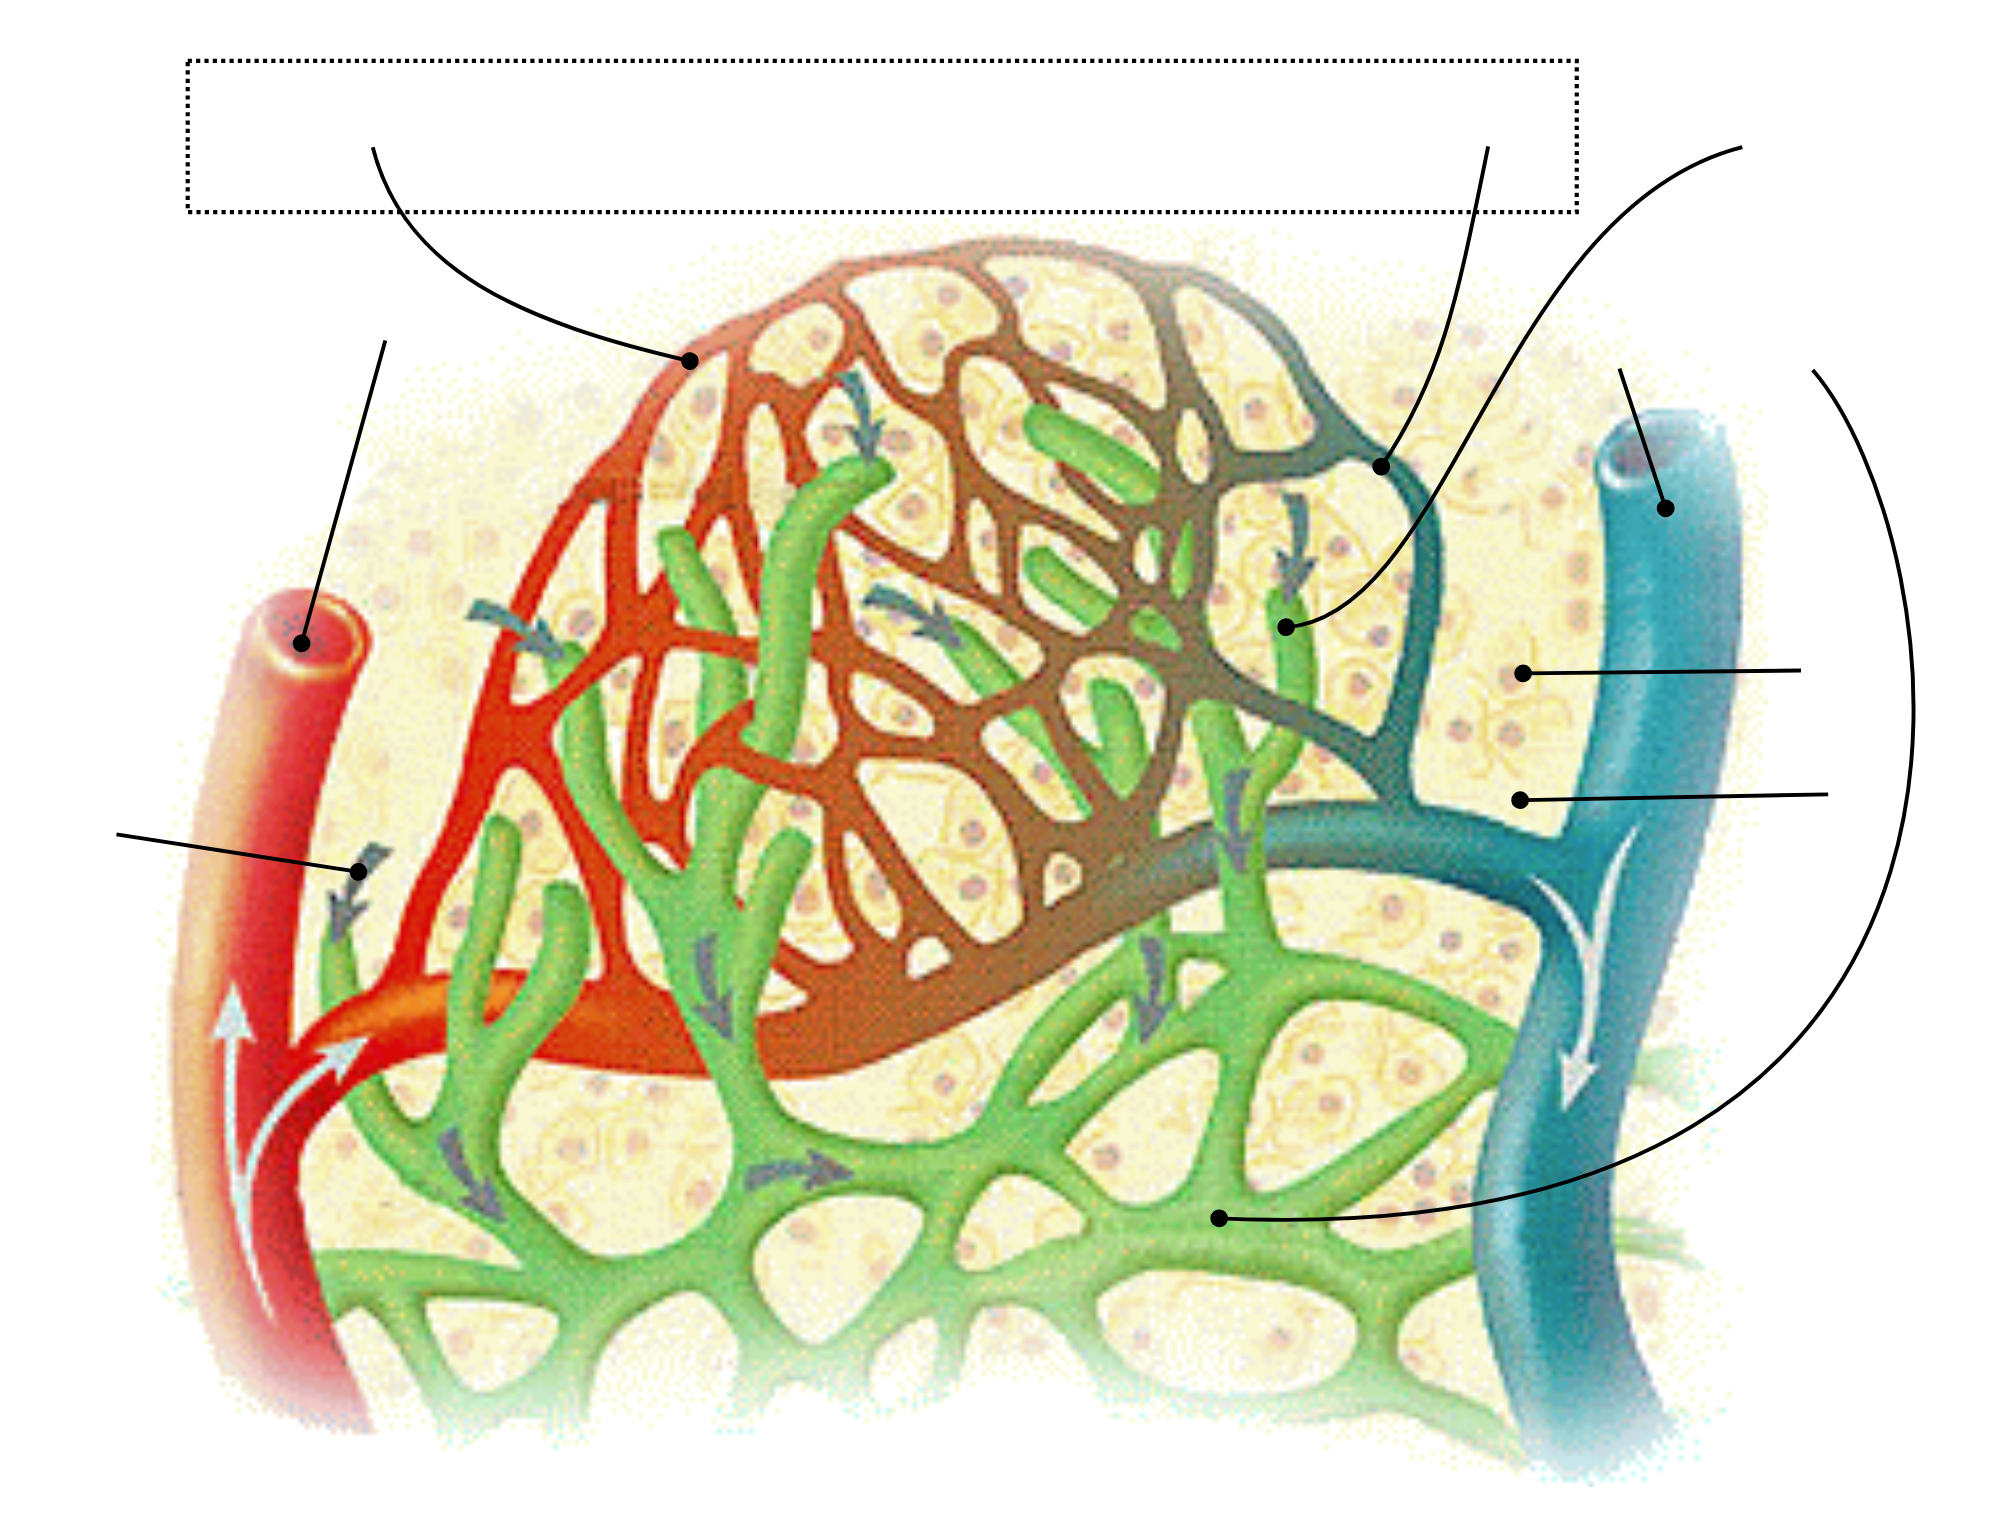
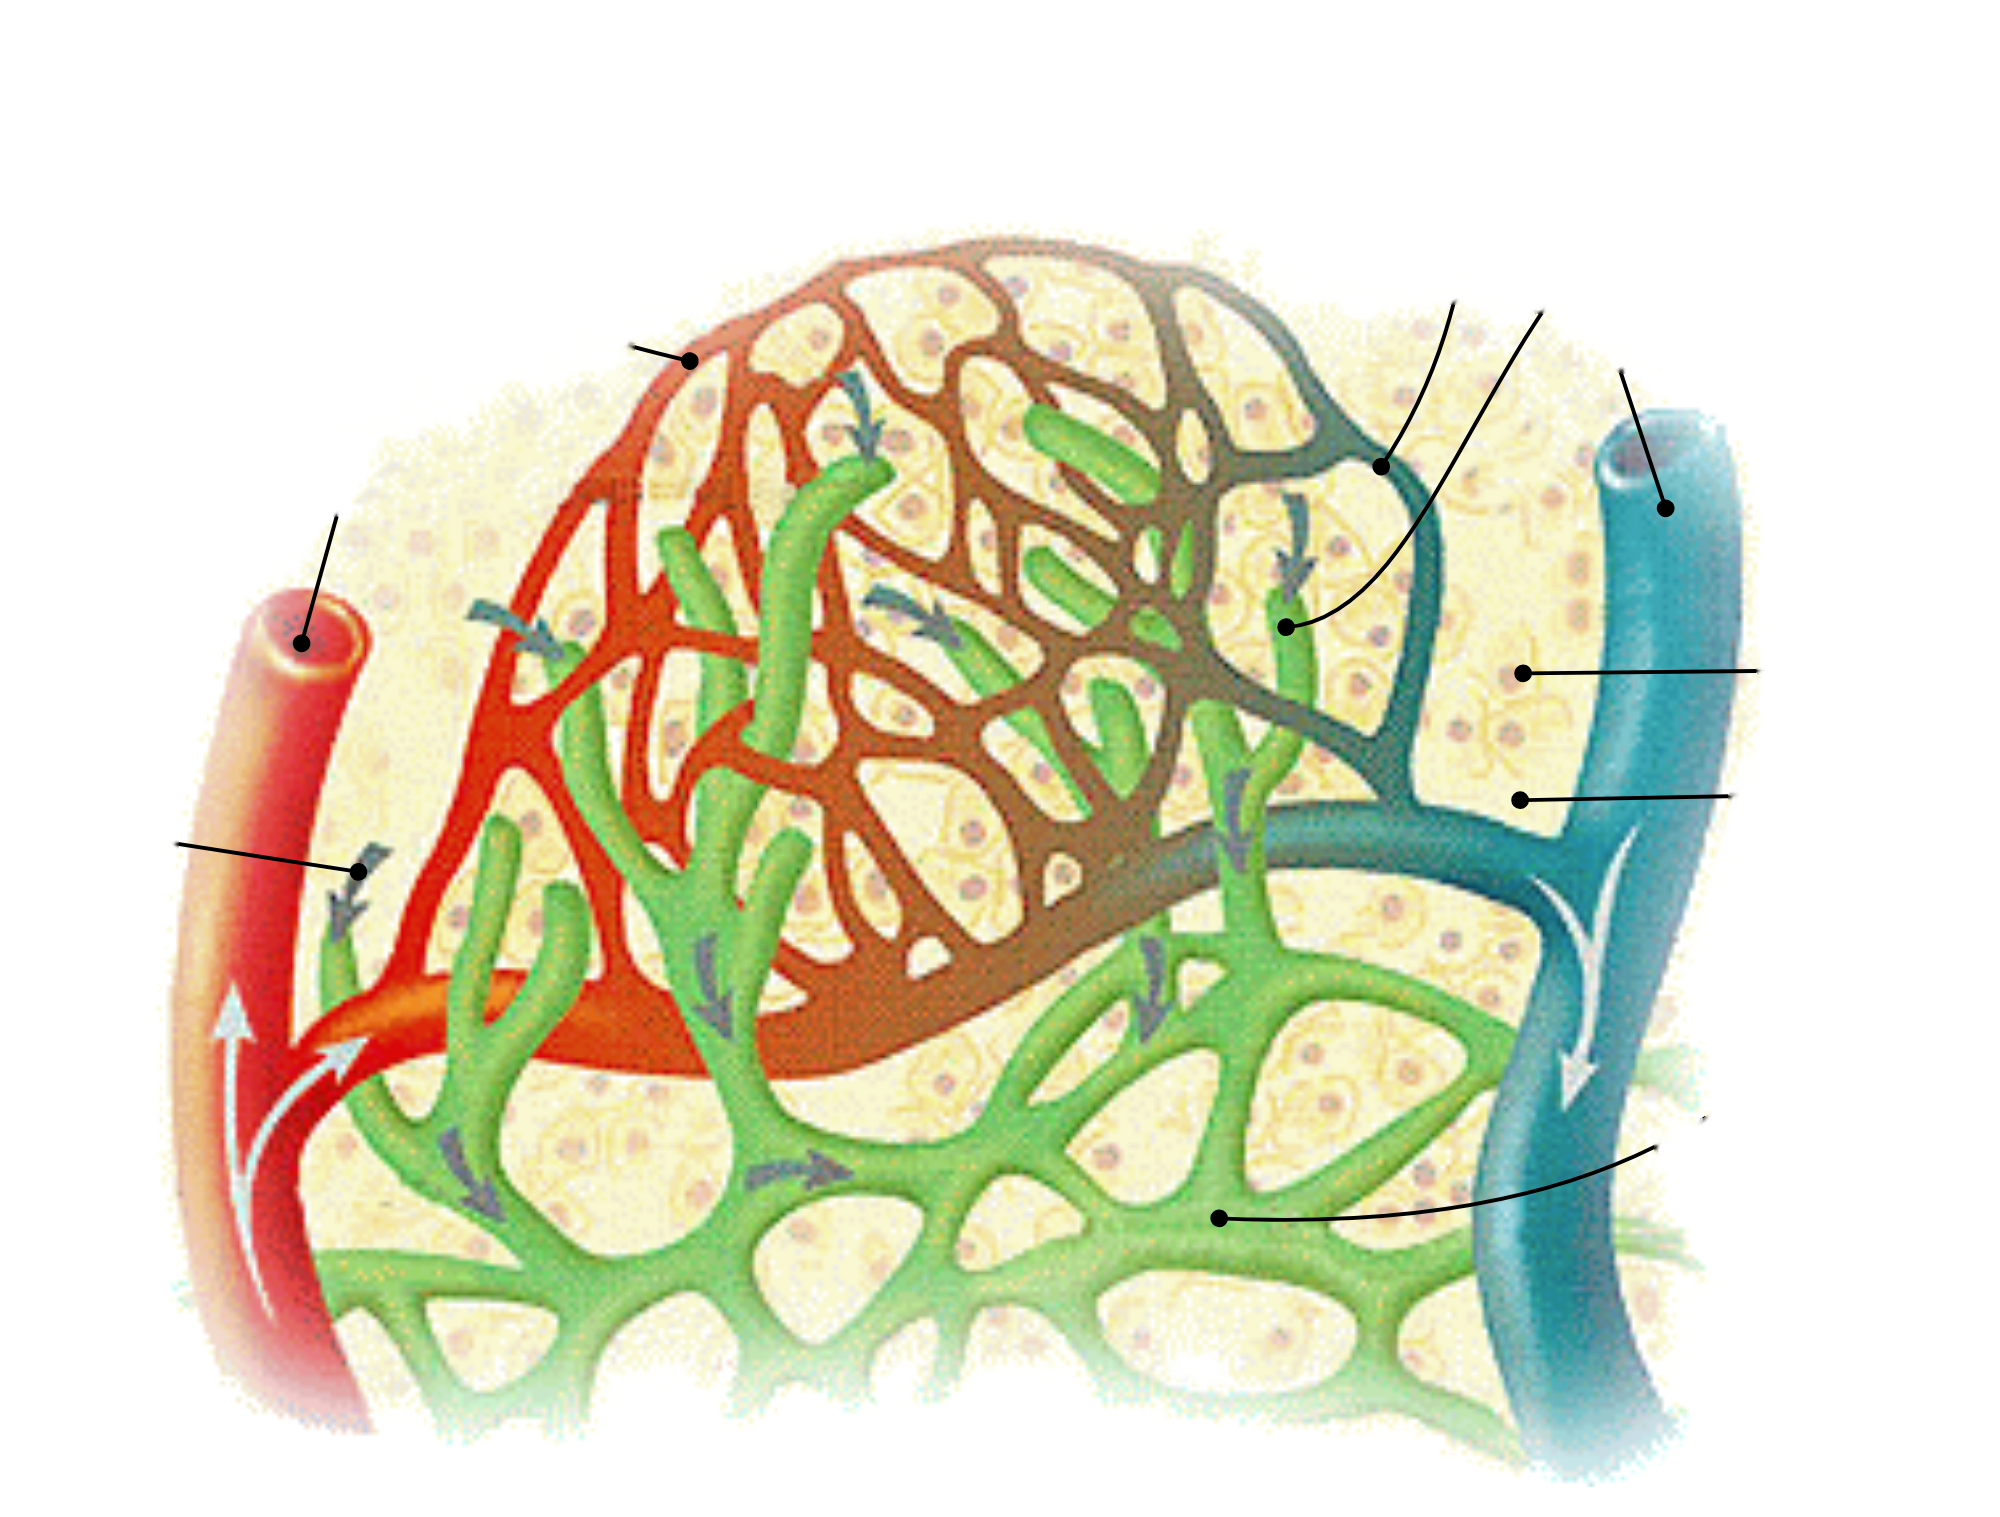
Очищено поля на нирці, зубі, провідній системі, артеріях, капілярах

diff --git a/tools/svg_clean.py b/tools/svg_clean.py
@@ -128,7 +128,9 @@ def main():
     pngdir = sys.argv[1]; ids = sys.argv[2:]
     prev = json.load(open(OUT, encoding='utf-8')) if os.path.exists(OUT) else {}
     for st in atlas['sets']:
-        if not st['file'].endswith('.svg') or (ids and st['id'] not in ids): continue
+        if ids: 
+            if st['id'] not in ids: continue
+        elif not st['file'].endswith('.svg'): continue
         png = os.path.join(pngdir, st['id'] + '.png')
         if not os.path.exists(png): print('no png', st['id']); continue
         res, clean = process(st, png, os.path.join(OVER, st['id'] + '.png'))
